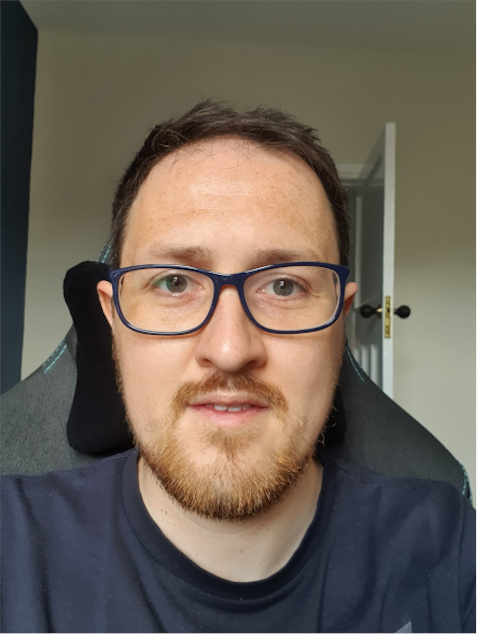
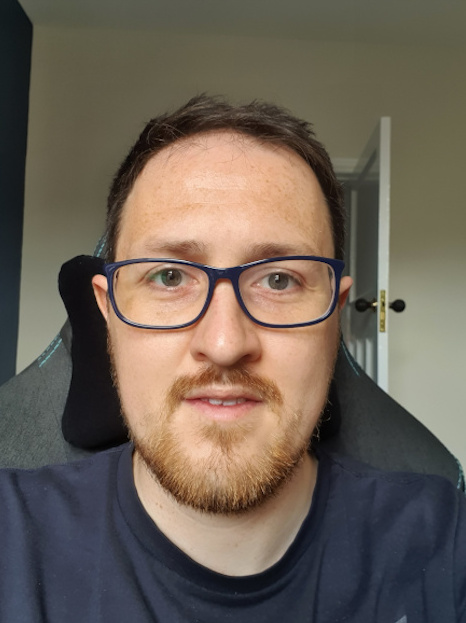
added styles.css to new branch and started to style portfolio inc nav bar

diff --git a/index.html b/index.html
@@ -1,61 +1,121 @@
 <!DOCTYPE html>
 <html>
     <head>
+        <link rel="stylesheet" type="text/css" href="styles.css">
         <title>Tom M</title>
     </head>
     <body>
+        <!-- internal style sheet test
+        <style>
+            h1 {
+                color:red;
+            }
+        </style> -->
+
         <main>
-            <header>
-                <h1>Tom M</h1>
-                <h2>Coder in training</h2>
-                <img src="images/tompic.jpg" alt="Picture of Tom M">
-                <nav>
-                    <ul>
-                        <li><a href="./pages/contact.html">Contact Me</a> </li>
-                        <li><a href="./pages/projects.html">Projects</a></li>
+            <nav>
+                <div>
+                    <a href="#top" class="nav-link">Home</a>
+                </div>
+                <div>
+                    <a href="#about" class="nav-link">About Me</a>
+                </div>
+                <div>
+                    <a href="./pages/contact.html" class="nav-link">Contact Me</a> 
+                </div>
+                <div>
+                    <a href="#projects" class="nav-link">Projects</a>
+                </div>
+            </nav>
+
+            <div class="body-main">
+                <header>
+                    <h1 id="top">Tom Mills</h1>
+                    <h2>Coder in training</h2>
+                    <img src="images/tompic.jpg" alt="Picture of Tom M" id="me-pic">
+
+                </header>
+                
+
+                <br />
+                <hr />
+
+                <div id="about-me">
+                    <h3>About Me</h3>
+                    <p>I'm Tom from Birmingham. I'm currently a student at Manchester Codes</p>
+                    <p>I first got interested in coding after some exposure in my job working with rents and service charges. I loved the problem solving and logical aspects as well as the idea of learning a new skill. After some self learning I settled on joining Manchester Codes to accelerate my move into a tech based career.</p>
+                    <div>
+                        <p>Third paragraph</p>
+                    </div>
+                    <figure>
+                        <img class="about-pic" src="images/mountpic.jpg" alt="Picture of Caro and Tom at the top of Helvellyn">
+                        <br/>
+                        <figcaption>
+                            The time I climbed Helvellyn via Striding Edge with my wonderful girlfriend Caro.
+                        </figcaption>
+                    </figure>
+                    <br/>
+                    <figure>
+                        <img class="about-pic" src="images/gigpic.jpg" alt="Tom & friends at gig">
+                        <br/>
+                        <figcaption>
+                            Great to be able to see live music again with friends.
+                        </figcaption>
+                    </figure>
+                </div>
+                <div>
+                    <h4 id="qual">Qualities</h4>
+                    <ol>
+                        <li>Friendly</li>
+                        <li>Openminded</li>
+                        <li>Logical thinker</li>
+                    </ol>
+                </div>
+                <div>
+                    <h4>Hobbies & Interests</h4>
+                    <ul class="hobbies">
+                        <li>Listening to music</li>
+                        <li>Live gigs & festivals</li>
+                        <li>Rock climbing</li>
+                        <li>Video games</li>
+                        <li>Technology</li>
                     </ul>
-                </nav>
-            </header>
-            <br />
-            <hr />
-            <div>
-                <h3>About Me</h3>
-                <p>I'm Tom from Birmingham. I'm currently a student at Manchester Codes</p>
-                <p>I got into coding after some exposure in my job working with rents and service charges. I loved the problem solving and logical aspects as well as the idea of learning a new skill. After some self learning I settled on joining Manchester Codes to accelerate my move into a tech based career.</p>
-                <figure>
-                    <img src="images/mountpic.jpg" alt="Picture of Caro and Tom at the top of Helvellyn">
+                </div>
+                <div>
+                    <h3 id="projects">Projects</h3>
                     <br/>
-                    <figcaption>
-                        The time I climbed Helvellyn via Striding Edge with my wonderful girlfriend Caro.
-                    </figcaption>
-                </figure>
-                <br/>
-                <figure>
-                    <img src="images/gigpic.jpg" alt="Tom & friends at gig">
-                    <br/>
-                    <figcaption>
-                        Great to be able to see live music again with friends.
-                    </figcaption>
-                </figure>
+                    <table>
+                        <thead>
+                            <tr>
+                                <th>Project Name</th>
+                                <th>Image</th>
+                                <th>Description</th>
+                            </tr>
+                        </thead>
+                        <tbody>
+                            <tr>
+                                <td>Testing 1</td>
+                                <td><img src="./images/test.jpg" alt="testing"></td>
+                                <td>Test test test</td>
+                            </tr>
+                            <tr>
+                                <td>Testing 2</td>
+                                <td><img src="./images/test.jpg" alt="testing"></td>
+                                <td>test test test</td>
+                            </tr>
+                        </tbody>
+                        <tfoot>
+                            <tr>
+                                <td colspan="3">That's all... for now!</td>
+                            </tr>
+                        </tfoot>
+                    </table>
+                </div>
+
             </div>
-            <div>
-                <h4>Qualities</h4>
-                <ol>
-                    <li>Friendly</li>
-                    <li>Openminded</li>
-                    <li>Logical thinker</li>
-                </ol>
-            </div>
-            <div>
-                <h4>Hobbies & Interests</h4>
-                <ul>
-                    <li>Listening to music</li>
-                    <li>Live gigs & festivals</li>
-                    <li>Rock climbing</li>
-                    <li>Video games</li>
-                    <li>Technology</li>
-                </ul>
-            </div>
+            
+
+            
             <footer>2022 Page created by Thomas Mills</footer>
         </main>
     </body>

diff --git a/styles.css b/styles.css
@@ -1,0 +1,51 @@
+body {
+    font-family: Arial, Helvetica, sans-serif;
+    background-color: rgb(6, 33, 33);
+    color:rgb(228,220,173)
+}
+
+nav{
+    background-color: rgb(24,24,16);
+    height:100%;
+    width:98px;
+    position:fixed;
+    left:0;
+    top:0;
+    padding-top:40px;
+    border-right: 2px solid rgb(238,238,238);
+    display:flex;
+    flex-direction:column;
+   
+}
+
+.nav-link, .nav-link:visited {
+    text-decoration:none;
+    color:rgb(238,238,238);
+    font-weight:800;
+    -webkit-transition:color 2s;
+    transition:color 2s;
+
+}
+
+.nav-link:hover {
+    color:rgb(31, 99, 99);
+}
+
+.body-main{
+    margin-left:100px
+
+}
+
+header{
+    text-align:center;
+}
+
+
+#me-pic{
+    border: 10px solid rgb(238,238,238);
+    border-radius:20px;
+    }
+
+
+
+
